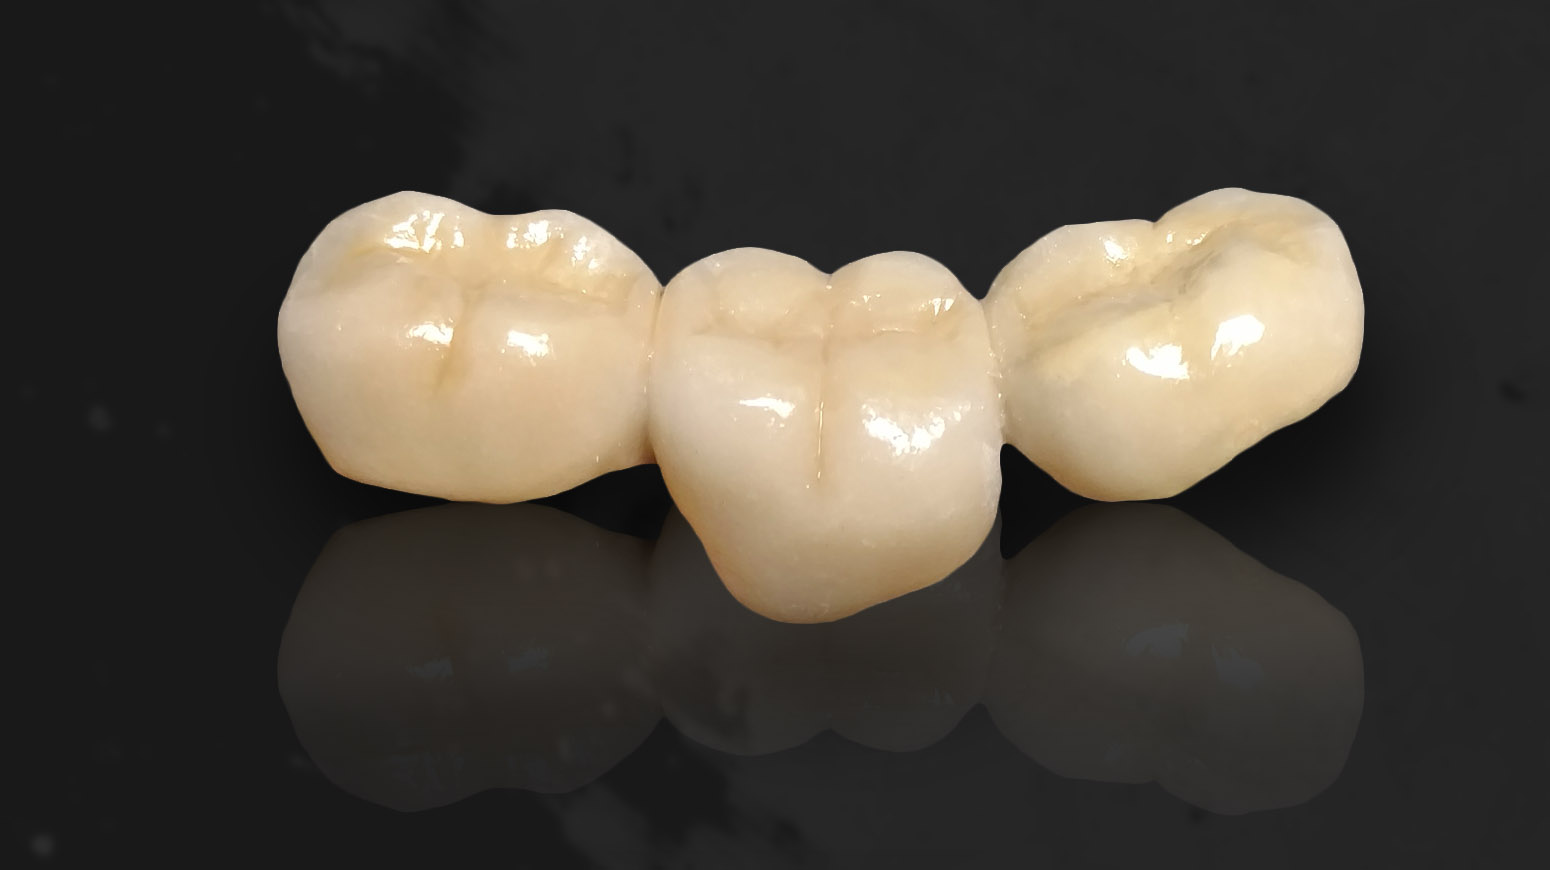
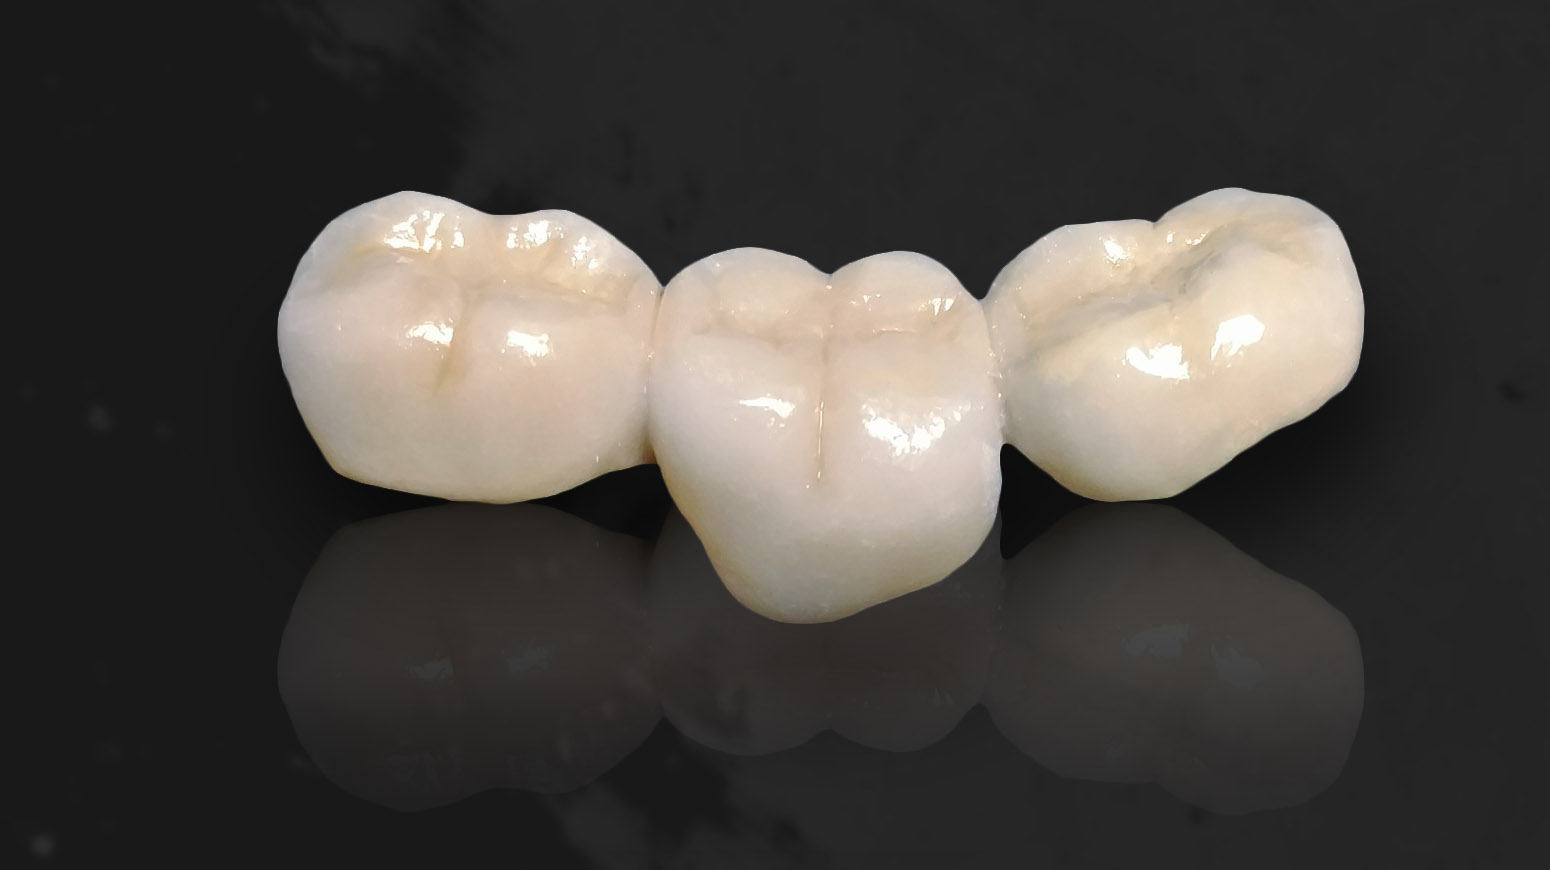
Removed arrows on phones, except for the ones in the hero section and made gallery image reflection's more subtle.

Changed region(s): [[0.4335, 0.5276, 0.6503, 0.7138], [0.1858, 0.4345, 0.4335, 0.5897], [0.6503, 0.4966, 0.7742, 0.5897]]

diff --git a/index.html b/index.html
@@ -34,9 +34,10 @@
                 <button class="navbar-toggle collapsed" data-toggle="collapse" data-target="#dropdown"><i class="fa fa-bars"></i></button>
             </div>
             <div class="collapse navbar-collapse" id="dropdown">
-                <ul id="mainMenu" class="nav navbar-nav center-me">
-                    <a class="dynamic-brand-white" href="#Welcome"><img src="img/DynamicCrownandBridgewhite.svg"></a>
+               <a class="dynamic-brand-white" href="#Welcome"><img src="img/DynamicCrownandBridgewhite.svg"></a>
                     <a class="dynamic-brand-blue" href="#Welcome"><img src="img/DynamicCrownandBridgeLogo.svg"></a>
+                <ul id="mainMenu" class="nav navbar-nav center-me">
+                    
                     <li>
                         <p id="welcome_scroll" data-menuanchor="Welcome" class="active nav-link-colors link-white-underline white-link">WELCOME</p>
                         <!-- <span></span>-->
@@ -112,7 +113,7 @@
                 <div class="vcenter col-md-5 light-section">
                     <div class="animation-wrapper animation zero-opacity">
                         <h2 id="" class="navbar-opacity">Our mission statement.</h2>
-                        <p id="glance-p" class="">At <strong>Dynamic Crown and Bridge</strong> we strive to provide our doctors and their patients quality and service, along with the best possible fit, function and aesthetics - <strong>from a single unit; to a roundhouse</strong>.</p>
+                        <p id="glance-p" class="">At <strong>Dynamic Crown and Bridge</strong>, we strive to provide our doctors and their patients quality and service, along with the best possible fit, function and aesthetics - <strong>from a single unit, to a roundhouse</strong>.</p>
                         <button id="learn-more" type="button" class="btn btn-default hvr-bounce-to-right">LEARN MORE</button>
                     </div>
                 </div>
@@ -231,7 +232,7 @@
                     </div>
                 </div>
             </div>
-            <div class="arrow bounce scroll-hero"></div>
+            <div  id="dark_section_arrow" class="arrow bounce scroll-hero"></div>
         </div>
         <!--MOBILE FEATURES SECTION END-->
         <div data-anchor="Services Section" class="section">
@@ -349,7 +350,7 @@
                             <div class="animation-wrapper animation">
                                 <h2>Check out some of our work.</h2>
                                 <div class="divider-white"></div>
-                                <p>All work overseen personally by our Certified Dental Technician, William Saldarriaga. With over <strong>25</strong> years of experience serving in West Palm Beach Florida - you can rest assured that your cases are in good hands! Select an image below to begin browsing the gallery.</p>
+                                <p>These are photos of <strong>real</strong> cases made for our clients. All work is overseen personally by our Certified Dental Technician, William Saldarriaga. With over <strong>25</strong> years of experience serving in South Florida - you can rest assured that your cases are in good hands! Select an image below to browse the gallery.</p>
                             </div>
                             <div class="gallery">
                                 <div class="text-center slides3">
@@ -383,7 +384,7 @@
                     </div>
                 </div>
             </div>
-            <div class="arrow bounce scroll-hero"></div>
+            <div id="dark_section_arrow" class="arrow bounce scroll-hero"></div>
         </div>
         <div data-anchor="Contact Us" class="section">
             <div id="contact" class="contact full-height-page container-fluid hidden-xs hidden-sm">

diff --git a/css/style.css b/css/style.css
@@ -1255,6 +1255,10 @@ textarea {
         width: 30px;
         height: 30px;
     }
+    #dark_section_arrow.arrow {
+        display: none;
+    }
+
     #footer li {
         font-size: .85em;
     }
@@ -1344,7 +1348,7 @@ textarea {
     }
 }
 
-@media (max-width: 1440px) {
+@media (max-width: 1600px) {
     .contact i {
         font-size: 1.3em;
     }
@@ -1380,7 +1384,7 @@ textarea {
     }
 }
 
-@media screen and (min-width: 993px) and (max-width: 1440px) {
+@media screen and (min-width: 993px) and (max-width: 1600px) {
     .accordion .link p {
         padding: 10px 15px 10px 15px;
     }
